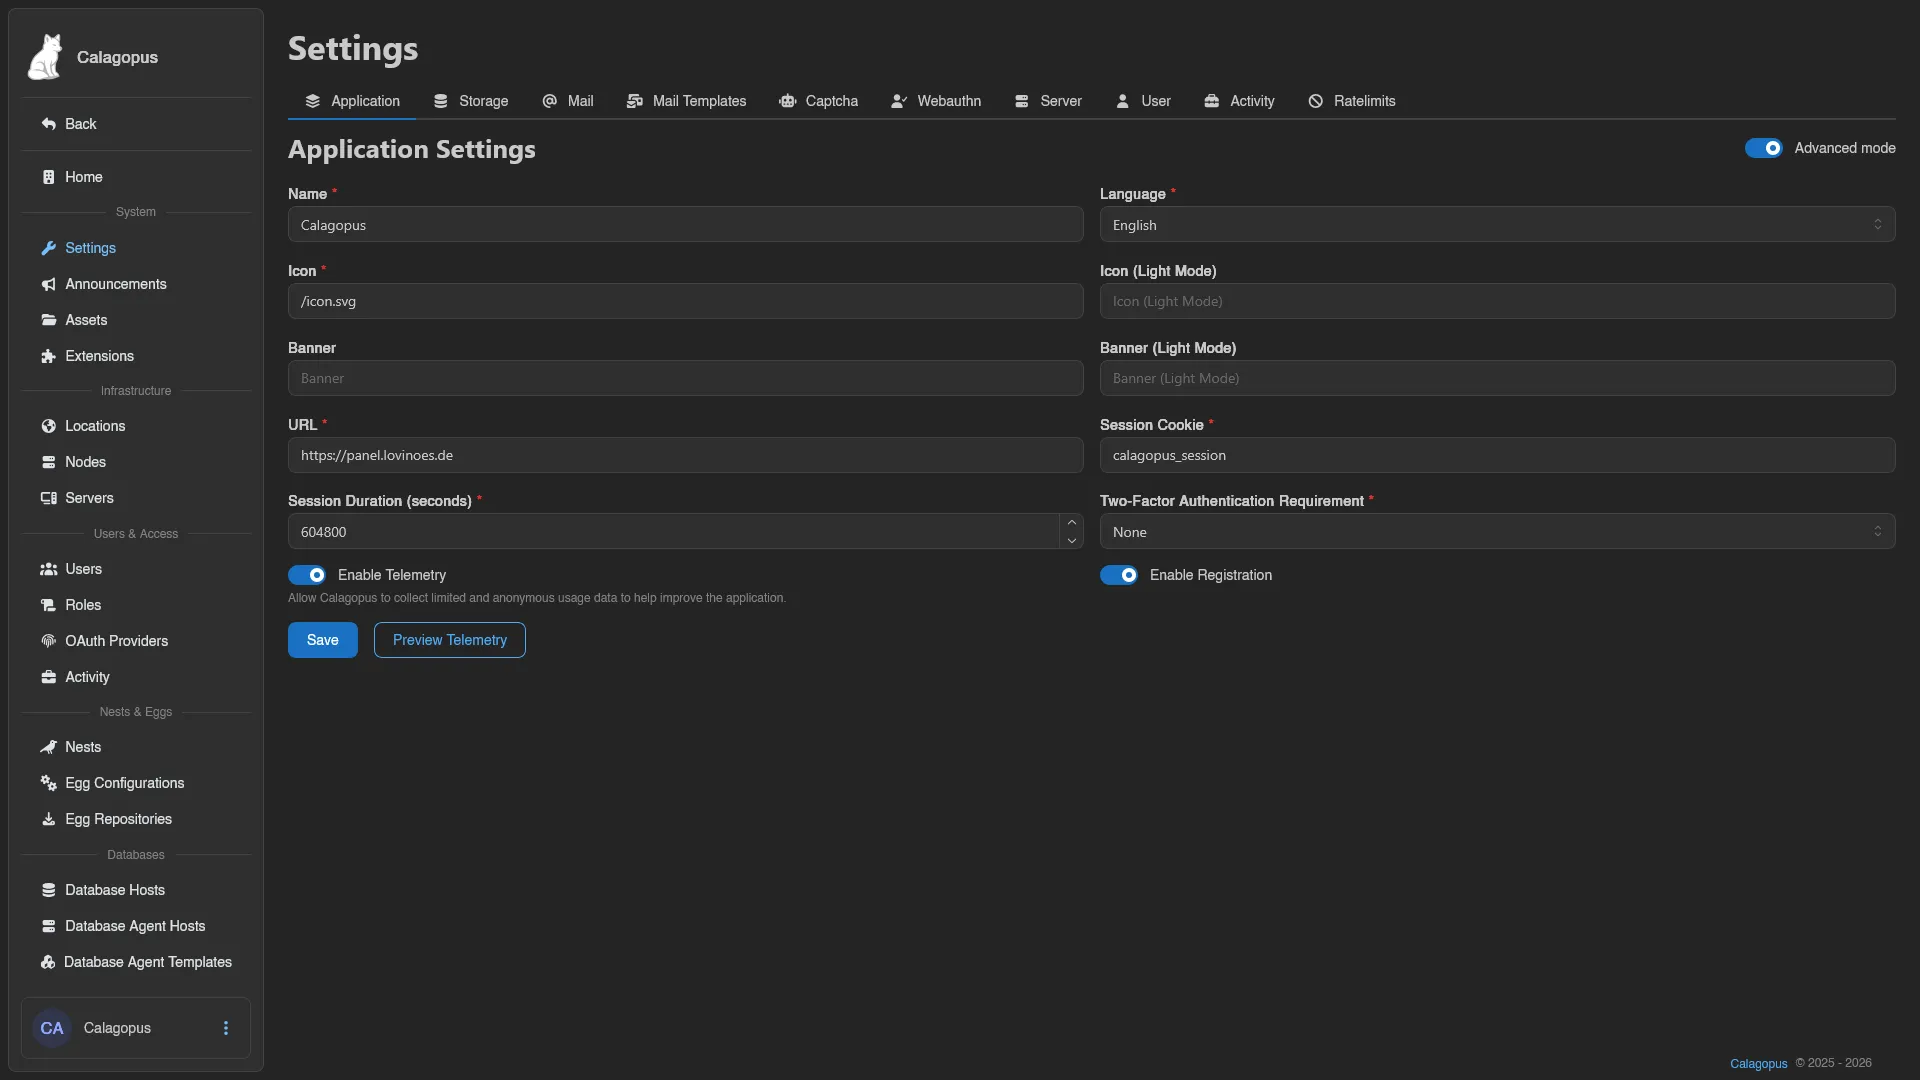
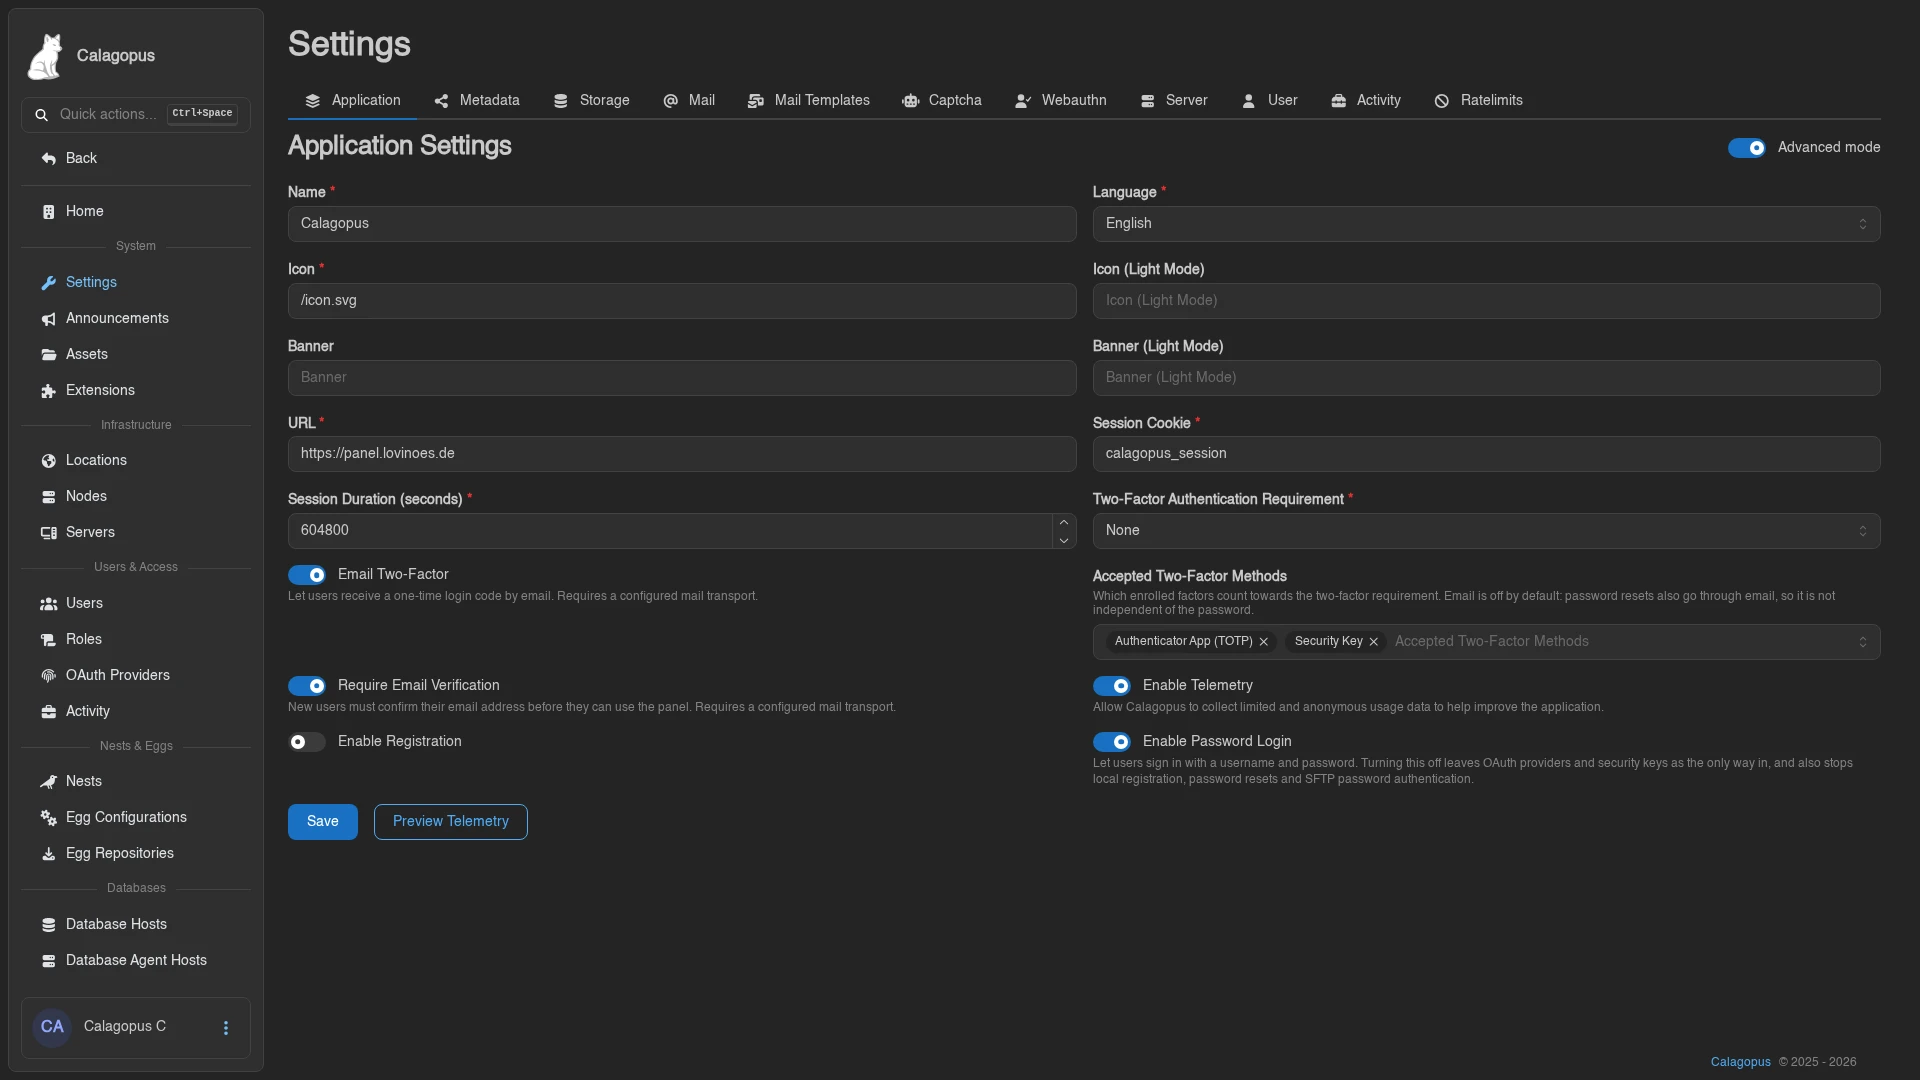
update docs

diff --git a/web/docs/panel/features/admin/settings.md b/web/docs/panel/features/admin/settings.md
@@ -32,15 +32,20 @@ The **Application** tab has an **Advanced mode** toggle in the top right. It rev
 | **Require Email Verification** | New accounts must open a verification link before they can use the panel, including SFTP and SSH. Requires a mail transport |
 | **Enable Telemetry** | Allow Calagopus to collect limited and anonymous usage data to help improve the application |
 | **Enable Registration** | Let anyone create an account on this panel |
+| **Enable Password Login** | Let users sign in with a username and password. Turning it off leaves OAuth providers and security keys as the only way in |
 
 **Preview Telemetry** (requires `stats.read`) shows exactly what data would be sent, so you can judge for yourself. Disabling telemetry asks for confirmation.
 
 Enabling registration also asks for confirmation and points out that doing it without a [captcha](#captcha) configured may be a mistake.
 
-Two combinations are rejected when you save, with an error rather than a silent fix:
+Turning **Enable Password Login** off asks for confirmation too, because it reaches further than the login page. With it off, local registration, the forgot-password flow and SFTP password authentication all stop working as well, and everyone needs an [OAuth provider](/docs/panel/features/admin/oauth-providers) or a [security key](/docs/panel/features/dashboard/account#security-keys) to get in. Public key authentication over SFTP keeps working. The per-account **Password Login** switch disappears while the panel-wide one is off, since there is nothing left for it to decide.
+
+Four combinations are rejected when you save, with an error rather than a silent fix:
 
 - *"at least one two-factor method must be accepted while two-factor is required"* - you cleared **Accepted Two-Factor Methods** while the requirement is anything other than None.
 - *"email two-factor and email verification require a mail transport to be configured"* - one of the two email options is on while [Mail](#mail) is set to no transport.
+- *"an enabled oauth provider is required before password login can be disabled"* - there is nothing left to sign in with, so turning off **Enable Password Login** would lock out the whole panel.
+- *"a link to an enabled oauth provider or a security key is required before password login can be disabled"* - the panel has a way in, but **you** do not. Link your own account first, or register a security key.
 
 ## Metadata
 

diff --git a/web/docs/about/security.md b/web/docs/about/security.md
@@ -433,7 +433,11 @@ also depends on the security of the user's mailbox.
 
 Discoverable passkeys can be used to sign in. With WebAuthn enabled and a security
 key registered, users can disable password login after confirming their password.
-CAPTCHA can also gate login. These are configurable account and operator choices;
+Operators can make the same choice panel-wide, which also closes local registration,
+self-service password resets, and SFTP password authentication. The Panel refuses that
+change unless an enabled OAuth provider exists and the administrator making it can
+still sign in without a password. CAPTCHA can also gate login. These are configurable
+account and operator choices;
 having an MFA feature does not mean every account has enabled it.
 
 Sources: [password hashing](https://github.com/calagopus/panel/blob/7e5c1b2ec4b050c9b078548f7557abee9843ce74/shared/src/crypt.rs#L4-L48), [credential cache](https://github.com/calagopus/panel/blob/7e5c1b2ec4b050c9b078548f7557abee9843ce74/shared/src/models/mod.rs#L961-L1016), [session cookie](https://github.com/calagopus/panel/blob/7e5c1b2ec4b050c9b078548f7557abee9843ce74/shared/src/models/user_session.rs#L355-L376), [MFA policy](https://github.com/calagopus/panel/blob/7e5c1b2ec4b050c9b078548f7557abee9843ce74/shared/src/models/user/mod.rs#L714-L767), [MFA defaults](https://github.com/calagopus/panel/blob/7e5c1b2ec4b050c9b078548f7557abee9843ce74/shared/src/settings/app.rs#L19-L34), [discoverable passkeys](https://github.com/calagopus/panel/blob/7e5c1b2ec4b050c9b078548f7557abee9843ce74/backend/src/routes/api/auth/login/security_key/discoverable.rs), [password-login control](https://github.com/calagopus/panel/blob/7e5c1b2ec4b050c9b078548f7557abee9843ce74/backend/src/routes/api/client/account/password_login.rs#L58-L76).

diff --git a/web/docs/panel/features/server/files.md b/web/docs/panel/features/server/files.md
@@ -29,7 +29,7 @@ The gear next to the page title opens the file manager settings:
 
 The **Connect** menu offers two ways to work on your files outside the browser:
 
-- **via SFTP** opens the **SFTP Details** modal with the connection info: **Protocol**, **Host**, **Port**, **Username** (your panel username plus the server's short ID, like `user.1a2b3c4d`), and a **Password** field that just reads "Your Control Panel Password". Every field except the password copies on click, and **Launch** opens an `sftp://` link for clients registered to handle it. Holding Shift while clicking **via SFTP** skips the modal and launches directly. Requires the `files.sftp` permission.
+- **via SFTP** opens the **SFTP Details** modal with the connection info: **Protocol**, **Host**, **Port**, **Username** (your panel username plus the server's short ID, like `user.1a2b3c4d`), and a **Password** field that just reads "Your Control Panel Password". If your password cannot open that connection, a warning replaces the field and you need an [SSH Key](../dashboard/ssh-keys.md). That applies when the account has no password, when you have turned [Password Login](../dashboard/account.md#password-login) off, and when an admin has turned it off for the whole panel. Every field except the password copies on click, and **Launch** opens an `sftp://` link for clients registered to handle it. Holding Shift while clicking **via SFTP** skips the modal and launches directly. Requires the `files.sftp` permission.
 - **via VS Code** mounts the server as a workspace folder in your editor. See the [VS Code integration](../../../integrations/vscode.md) for setup and everything it can do.
 
 <img src="./images/files/sftp-details.webp" width="220" alt="SFTP details modal" />

diff --git a/web/docs/panel/features/auth/login.md b/web/docs/panel/features/auth/login.md
@@ -20,11 +20,15 @@ Below the **OR** separator are the alternate ways in:
 
 If registration is enabled, a "Not registered? **Create account**" link points to [Register](./register.md).
 
+When an admin has turned off **Enable Password Login** in [Settings](../admin/settings.md#application), the **Forgot Password** and **Create account** links are gone, and so is the password step. What is left is whatever the panel still accepts: the OAuth buttons, plus the passkey options if security keys are on. If security keys are off too, the identifier field disappears entirely and the OAuth buttons are the whole page. Typing a name that has no passkey then gets you "Password sign-in is turned off on this panel, use one of the options below instead" rather than a password prompt.
+
 ## Step 2: Passkey or Password
 
 If your account has [security keys](../dashboard/security-keys.md) registered and passkeys are enabled panel-wide, **Continue** takes you to **Authenticate with Passkey** first ("We found a passkey associated with `<username>`"). **Use Passkey** triggers the browser's passkey prompt and logs you in on success; **Use Password** and **Back** below the separator let you fall back to the normal flow.
 
 ![](./images/login/step-passkey.webp)
+
+**Use Password** is hidden when password login is off panel-wide, leaving the passkey and **Back**.
 
 Otherwise (or after **Use Password**) you land on **Enter Password** ("Please enter your password for `<username>`"). Type your password, it has a visibility toggle, and hit **Sign In**. **Forgot Password** and **Back** sit below the separator here too. There is no remember-me option; sessions last seven days by default (an instance setting).
 

diff --git a/web/docs/panel/features/dashboard/account.md b/web/docs/panel/features/dashboard/account.md
@@ -53,11 +53,13 @@ If your role or the panel requires 2FA, the card also tells you whether your acc
 
 ## Password Login
 
-This card only appears if your account has a password. It reads either "You can sign in with your password." or "Password login is turned off. Only your security keys can sign you in.", with a button to flip it. Both directions ask for your password to confirm.
+This card only appears if your account has a password, and only while password login is switched on panel-wide. It reads either "You can sign in with your password." or "Password login is turned off. Only your security keys can sign you in.", with a button to flip it. Both directions ask for your password to confirm.
 
 You cannot turn password login off until you have at least one [security key](./security-keys.md) - the button stays disabled with the tooltip "Add a security key before turning off password login." until then, and the panel refuses it server-side as well.
 
 Turning it off is broader than it sounds: your password stops working **everywhere**, including SFTP password authentication. SSH keys keep working, and so do your security keys. Attempting a password login afterwards fails with "password login is disabled for this account". While it's off you also can't delete your last remaining security key, which would otherwise lock you out entirely.
+
+An administrator can make the same call for the whole panel, through **Enable Password Login** in [Settings](../admin/settings.md#application). The card disappears while that is off, because there is nothing left for it to switch, and the last-security-key rule applies to you either way.
 
 ## Account Details
 

diff --git a/web/docs/panel/features/server/console.md b/web/docs/panel/features/server/console.md
@@ -52,7 +52,7 @@ Typing `!` suggests your [Command Snippets](../dashboard/command-snippets.md); p
 
 ### SSH Details
 
-**SSH Details** shows everything needed to open a shell on the server over SSH: protocol, host, port, the username (your panel username followed by the server's short ID, like `<username>.<server-id>`), and a ready-made **SSH Command**. The password is your panel password, or add an [SSH Key](../dashboard/ssh-keys.md) to skip it. Every field except the password copies on click, and **Launch** opens the connection in your system's SSH client. Both this and **Command History** are disabled while the server is suspended or busy installing, restoring, or transferring.
+**SSH Details** shows everything needed to open a shell on the server over SSH: protocol, host, port, the username (your panel username followed by the server's short ID, like `<username>.<server-id>`), and a ready-made **SSH Command**. The password is your panel password, or add an [SSH Key](../dashboard/ssh-keys.md) to skip it. If your password cannot open the connection, the key is required and a warning replaces the password field. Every field except the password copies on click, and **Launch** opens the connection in your system's SSH client. Both this and **Command History** are disabled while the server is suspended or busy installing, restoring, or transferring.
 
 <img src="./images/console/ssh-details.webp" width="220" alt="" />
 

diff --git a/web/docs/panel/features/auth/password-reset.md b/web/docs/panel/features/auth/password-reset.md
@@ -19,6 +19,8 @@ When a captcha is configured, it has to be solved first; after a successful requ
 The email only goes out if the panel has a [mail provider](../admin/settings.md#mail) configured. Admins can edit the message itself under [Mail Templates](../admin/settings.md#mail-templates).
 :::
 
+Self-service resets are off entirely when an admin has turned off **Enable Password Login** in [Settings](../admin/settings.md#application); the **Forgot Password** links disappear and `/auth/forgot-password` stops being a page. Setting a new password through a link an admin generated still works, so an admin can hand out a password ahead of turning the setting back on.
+
 ## Choosing a New Password
 
 The emailed link opens `/auth/reset-password` with your reset token attached ("Please enter your new password"). Enter the new **Password** twice, the second time in **Confirm Password**, and hit **Reset Password**. On success you're sent back to the login page with a "Password has been reset." confirmation. Opening the page without a token just redirects to login.

diff --git a/web/docs/panel/features/auth/register.md b/web/docs/panel/features/auth/register.md
@@ -21,4 +21,6 @@ When a captcha is configured, it renders below the card and **Register** stays d
 For admins: the **Enable Registration** toggle lives in [Settings > Application](../admin/settings.md#application), and turning it on without a [captcha](../admin/settings.md#captcha) configured is asking for bot signups. The `auth/register` endpoint is [rate limited](../admin/settings.md#ratelimits) per IP.
 
 Note that [OAuth login](../admin/oauth-providers.md) also creates accounts from the provider's profile, regardless of this toggle, unless the provider is set to **Only allow Login**.
+
+The page itself is only routed while registration is on, so `/auth/register` is a not-found card otherwise. Turning off **Enable Password Login** takes it away the same way, since the account it would create could never sign in. OAuth signup carries on as normal.
 :::

diff --git a/web/docs/about/licenses.md b/web/docs/about/licenses.md
@@ -35,7 +35,7 @@ doubt, read the `LICENSE` file in the repository itself.
 | [`calagopus/benchmarking`](https://github.com/calagopus/benchmarking) | MIT | Benchmarking suite behind the [benchmarks page](./benchmarks.md). |
 | [`calagopus/website`](https://github.com/calagopus/website) | MIT | Docs and marketing site. |
 | [`calagopus/branding`](https://github.com/calagopus/branding) | CC0-1.0 | Branding assets (logos, icons, banners). |
-| [`calagopus/branding-generator`](https://github.com/calagopus/branding-generator) | CC0-1.0 | Web generator for branding assets. No license file is present. |
+| [`calagopus/branding-generator`](https://github.com/calagopus/branding-generator) | CC0-1.0 | Web generator for branding assets. |
 
 ### Deployment recipes
 

diff --git a/web/docs/panel/features/admin/oauth-providers.md b/web/docs/panel/features/admin/oauth-providers.md
@@ -45,6 +45,8 @@ The path fields use JSONPath syntax (see [serdejsonpath.live](https://serdejsonp
 
 Finish with **Save** (or **Save & Stay** when creating). An existing provider also offers **Export** (as JSON or YAML), **Duplicate**, **Delete**, and a **View Documentation** shortcut to the setup guides.
 
+While **Enable Password Login** is off in [Settings](./settings.md#application), the panel refuses to delete or disable the last enabled provider, since nobody without a security key would be able to sign in afterwards. Turn password login back on first if that is what you want.
+
 ![Configured provider with censored credentials](./images/oauth-providers/general.webp)
 
 
